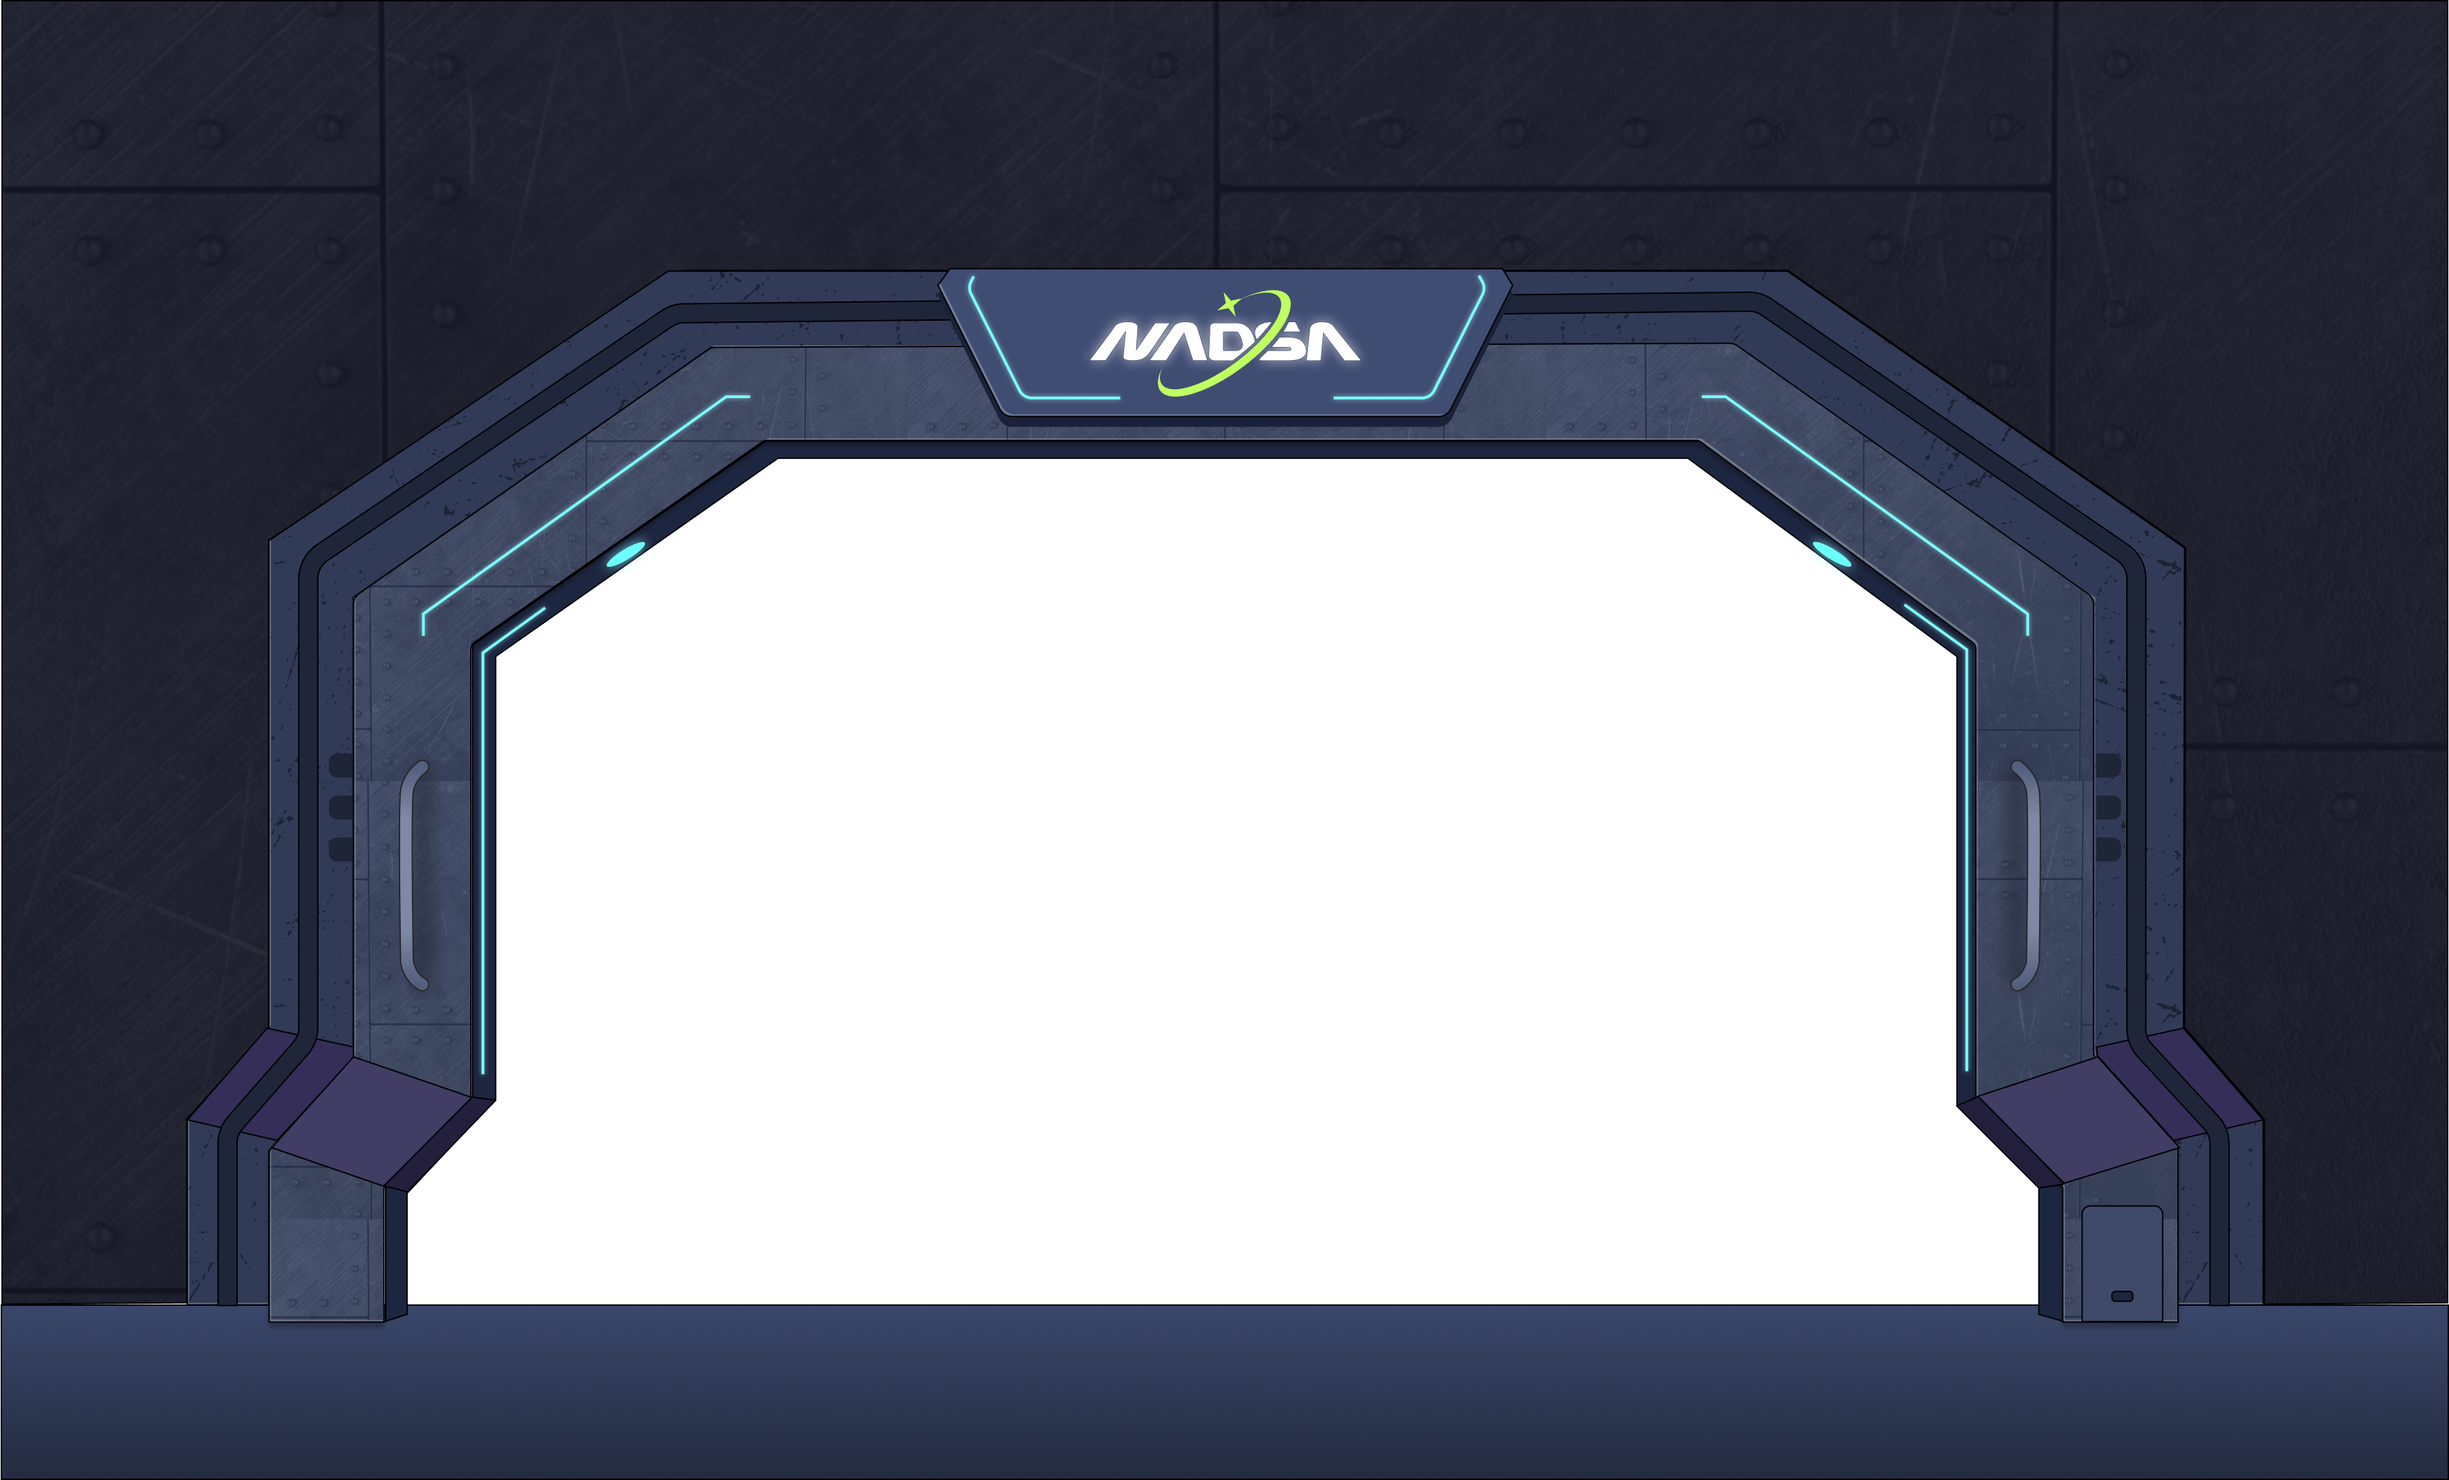
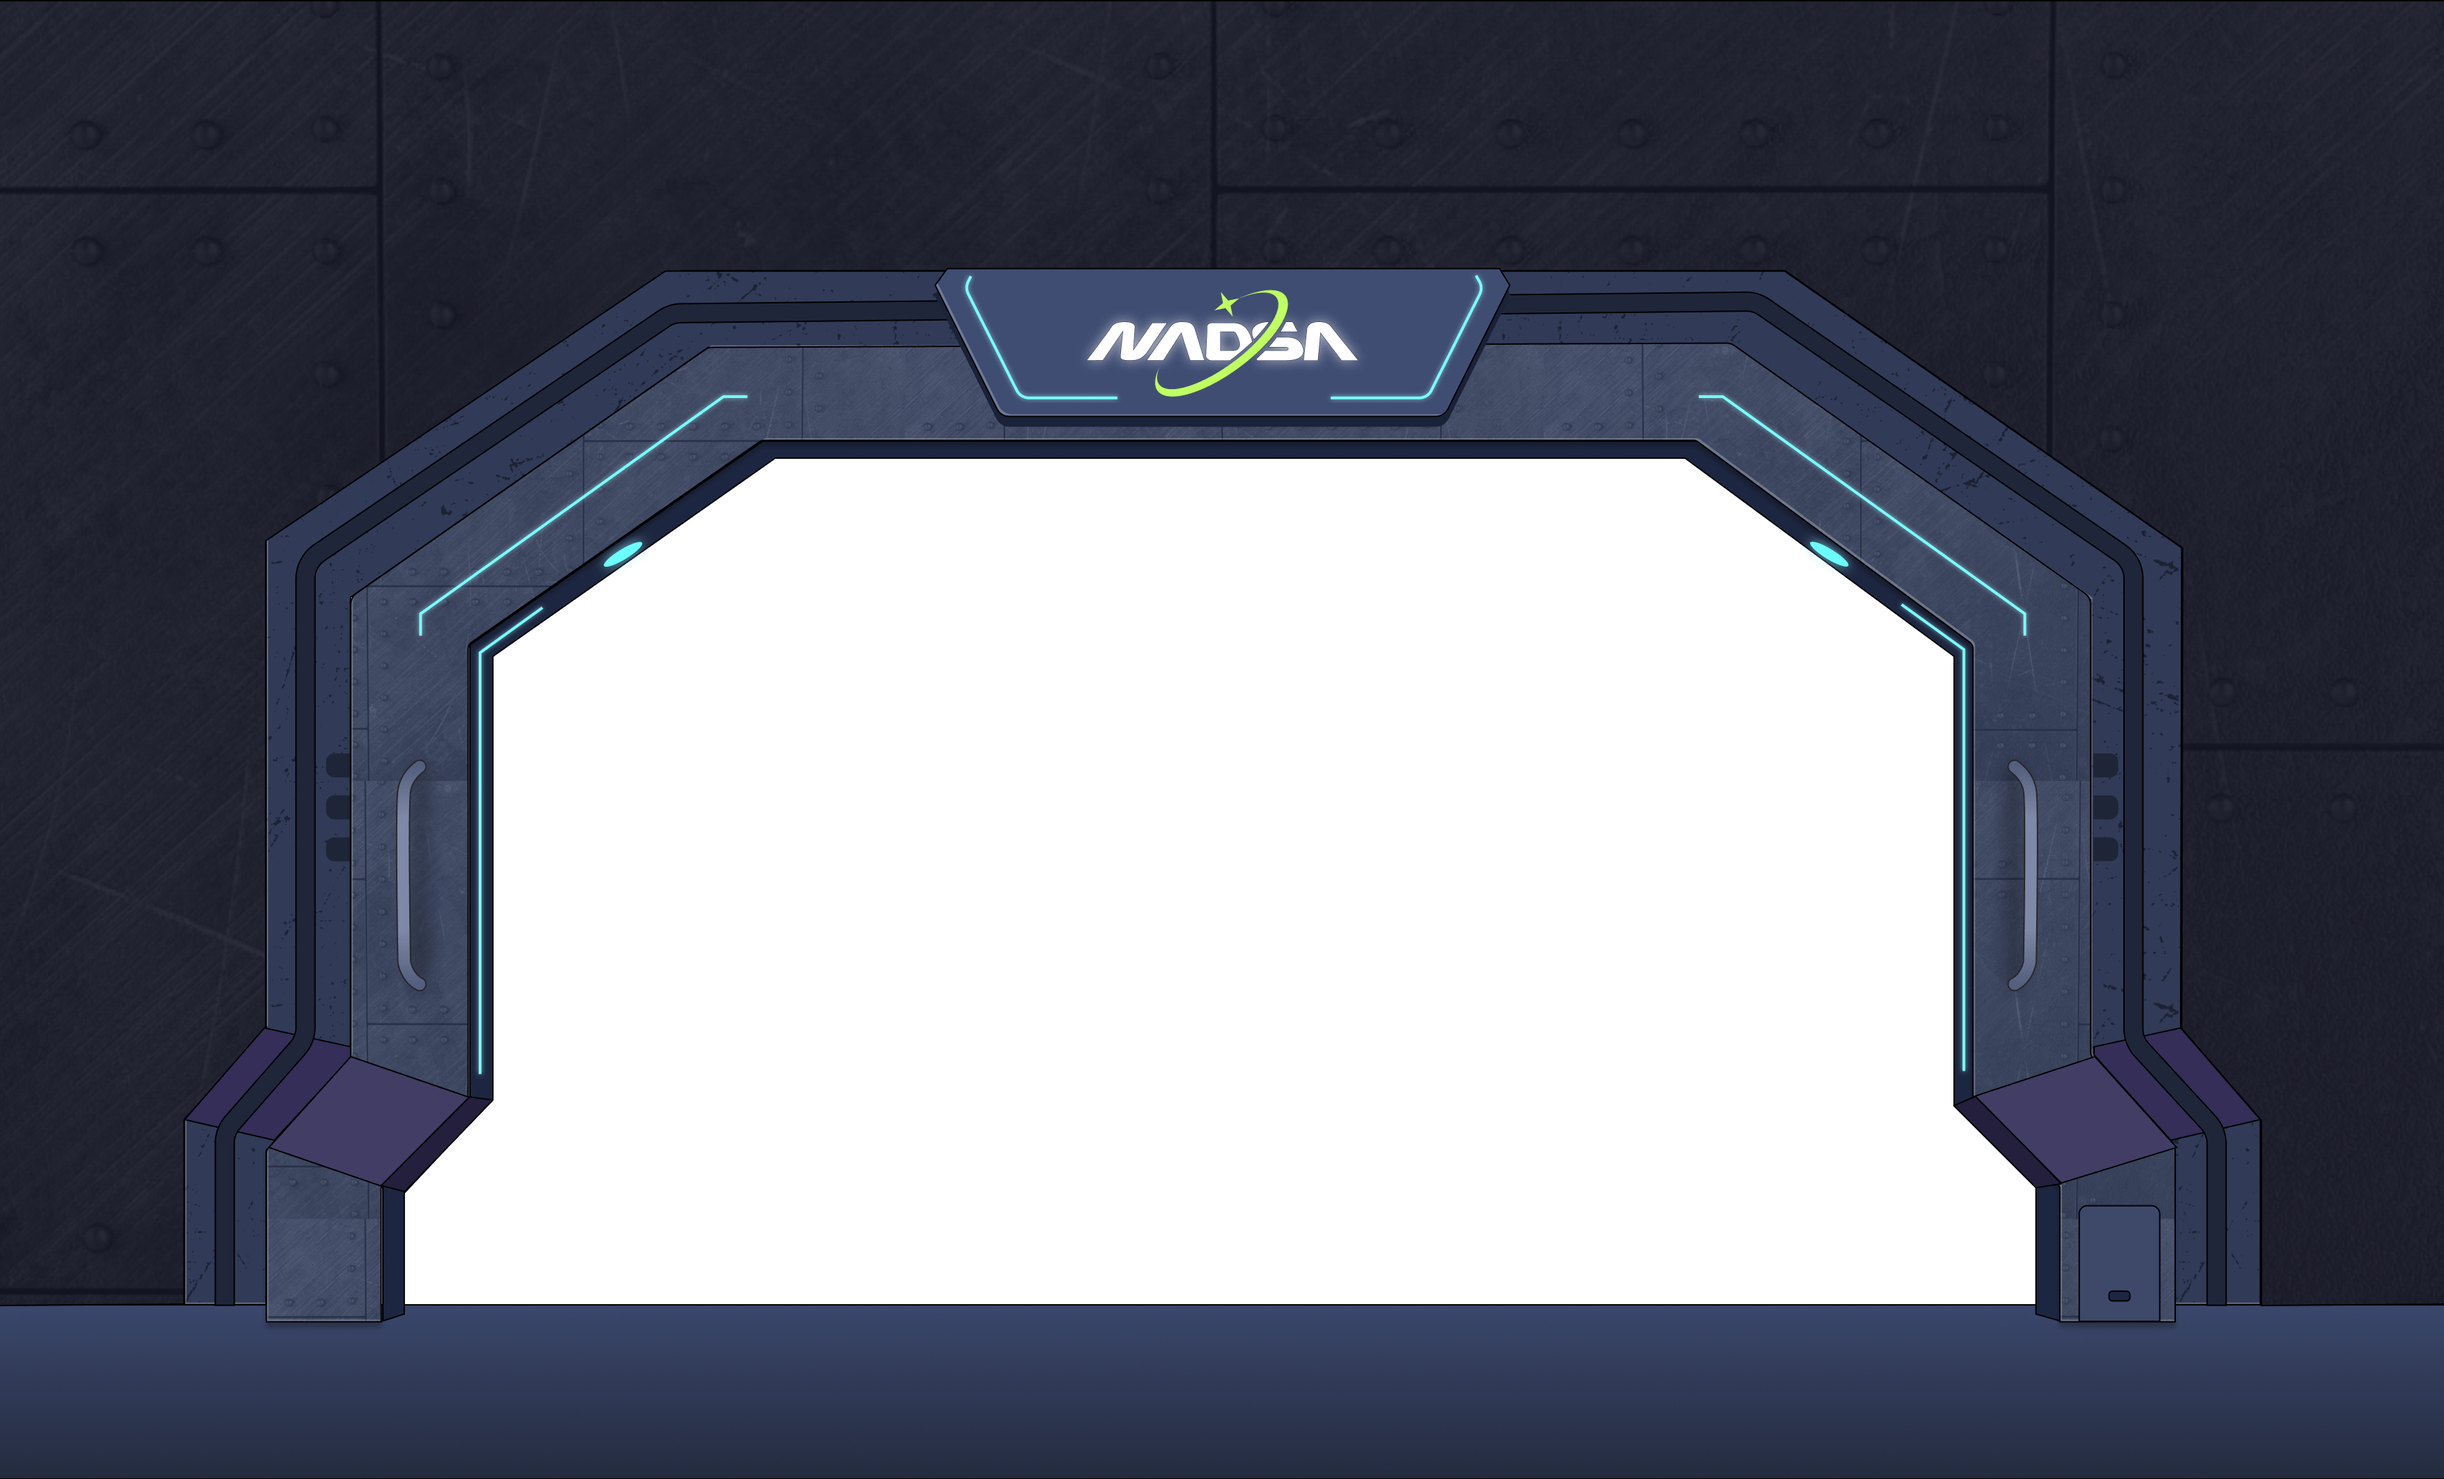
feat: modify invitation background

diff --git a/src/sections/invitation/index.tsx b/src/sections/invitation/index.tsx
@@ -2,10 +2,35 @@ import { motion } from "framer-motion";
 import Rules from "./components/rules";
 import Code from "./components/code";
 import { useInvitationContext } from "@/context/invitation";
-import "./index.css";
+import { useRef, useEffect, useState } from "react";
+
+const DEFAULT_DOOR_STYLES = {
+  width: "33.89vw",
+  minWidth: "633px",
+  height: "33.19vw",
+  minHeight: "620px",
+  bottom: "6.7vw",
+};
+const DEFAULT_DOOR_STYLES_V = {
+  width: "61vh",
+  minWidth: "633px",
+  height: "61vh",
+  minHeight: "620px",
+  bottom: "11.2vh",
+};
 
 const InvitationView = (props: any) => {
   const { } = props;
+
+  const gateRef = useRef<any>();
+  const [doorLeftStyles, setDoorLeftStyles] = useState({
+    ...DEFAULT_DOOR_STYLES,
+    left: `calc(50% - 31.80vw)`,
+  });
+  const [doorRightStyles, setDoorRightStyles] = useState({
+    ...DEFAULT_DOOR_STYLES,
+    right: `calc(50% - 31.80vw)`,
+  });
 
   const {
     scopeLeftDoor,
@@ -15,6 +40,75 @@ const InvitationView = (props: any) => {
     finalValid,
   } = useInvitationContext();
 
+  useEffect(() => {
+    const updateDoorStyles = () => {
+      if (gateRef.current) {
+        const { offsetWidth, offsetHeight } = gateRef.current;
+        const aspectRatio = offsetWidth / offsetHeight;
+        const targetRatio = 1772 / 1070;
+
+        if (offsetWidth <= 1772 && offsetHeight <= 1070) {
+          setDoorLeftStyles({
+            ...DEFAULT_DOOR_STYLES,
+            minWidth: "640px",
+            minHeight: "630px",
+            bottom: "124px",
+            left: `calc(50% - 598px)`,
+          });
+          setDoorRightStyles({
+            ...DEFAULT_DOOR_STYLES,
+            minWidth: "640px",
+            minHeight: "630px",
+            bottom: "124px",
+            right: `calc(50% - 598px)`,
+          });
+          return;
+        }
+
+        if (aspectRatio < targetRatio) {
+          setDoorLeftStyles({
+            ...DEFAULT_DOOR_STYLES_V,
+            left: `calc(50% - 57vh)`,
+          });
+          setDoorRightStyles({
+            ...DEFAULT_DOOR_STYLES_V,
+            right: `calc(50% - 57vh)`,
+          });
+        } else {
+          setDoorLeftStyles({
+            ...DEFAULT_DOOR_STYLES,
+            left: `calc(50% - 31.80vw)`,
+          });
+          setDoorRightStyles({
+            ...DEFAULT_DOOR_STYLES,
+            right: `calc(50% - 31.80vw)`,
+          });
+        }
+      }
+    };
+
+    updateDoorStyles();
+
+    const handleResize = () => {
+      updateDoorStyles();
+    };
+
+    window.addEventListener('resize', handleResize);
+
+    const resizeObserver = new ResizeObserver(() => {
+      updateDoorStyles();
+    });
+
+    if (gateRef.current) {
+      resizeObserver.observe(gateRef.current);
+    }
+
+    return () => {
+      window.removeEventListener('resize', handleResize);
+      resizeObserver.disconnect();
+    };
+  }, []);
+
   if (finalValid) {
     return null;
   }
@@ -22,26 +116,28 @@ const InvitationView = (props: any) => {
   return (
     <motion.div ref={scopeInvitation} className="fixed top-0 left-0 w-screen h-screen z-[100]">
       <div className="relative z-[2] w-full h-full flex justify-center items-stretch">
-        <div className="flex-1 h-full bg-black"></div>
-        <motion.div className="w-[94.45vw] min-w-[1770px] h-full shrink-0 bg-[url('/images/invitation/bg-gate-full.png')] bg-no-repeat bg-cover bg-bottom">
+        <div className="flex-1 h-full bg-black bg-[url('/images/invitation/bg-wall.png')] bg-no-repeat bg-cover bg-bottom"></div>
+        <motion.div ref={gateRef} className="w-[94.45vw] min-w-[1772px] h-full shrink-0 bg-[url('/images/invitation/bg-gate-full.png')] bg-no-repeat bg-cover bg-bottom">
           <motion.div ref={scopeCodePad} className="flex flex-col justify-end items-center gap-[14px] w-full h-full">
             <Rules />
             <Code />
           </motion.div>
         </motion.div>
-        <div className="flex-1 h-full bg-black"></div>
+        <div className="flex-1 h-full bg-black bg-[url('/images/invitation/bg-wall.png')] bg-no-repeat bg-cover bg-bottom"></div>
       </div>
       <motion.img
         ref={scopeLeftDoor}
         src="/images/invitation/bg-door-left.png"
         alt=""
-        className="invitation-bg-door invitation-bg-door-left absolute z-[1] bottom-[6.7236vw] left-[calc(50%-31.80vw)] w-[33.89vw] min-w-[633px] h-[33.19vw] min-h-[620px] object-contain object-right"
+        className="invitation-bg-door invitation-bg-door-left absolute z-[1] object-contain object-right"
+        style={doorLeftStyles}
       />
       <motion.img
         ref={scopeRightDoor}
         src="/images/invitation/bg-door-right.png"
         alt=""
-        className="invitation-bg-door invitation-bg-door-right absolute z-[1] bottom-[6.7236vw] right-[calc(50%-31.80vw)] w-[33.89vw] min-w-[633px] h-[33.19vw] min-h-[620px] object-contain object-left"
+        className="invitation-bg-door invitation-bg-door-right absolute z-[1] object-contain object-left"
+        style={doorRightStyles}
       />
     </motion.div>
   );
